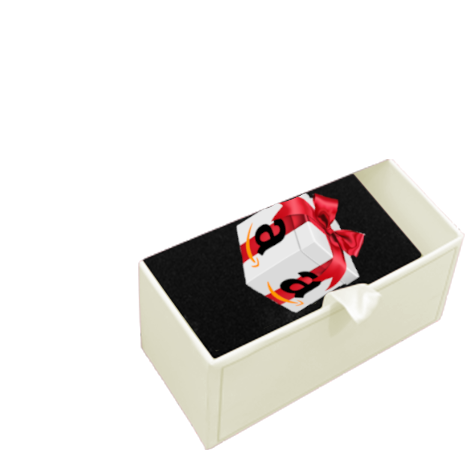
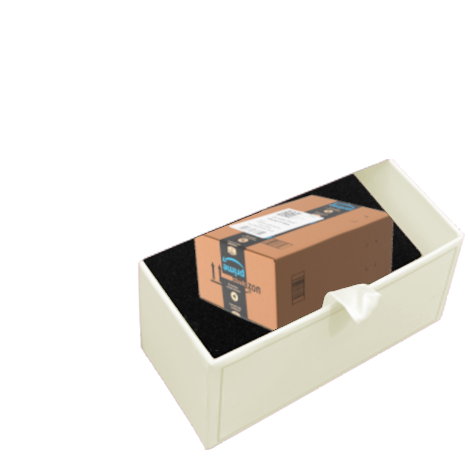
boxes changed. Minor fixes

Changed region(s): [[0.3872, 0.3914, 0.8638, 0.7226]]

diff --git a/assets/main.css b/assets/main.css
@@ -2185,12 +2185,12 @@ body {
 
 @media (min-width: 76.5625em) {
 	.box {
-		height: 19.375rem;
+		height: 13.375rem;
 	}
 
 	.box__inner,
 	.box__front {
-		height: 19.375rem;
+		height: 13.375rem;
 	}
 
 	.box__inner {
@@ -2223,8 +2223,7 @@ body {
 	.hero__text4 {
 		margin-bottom: 2.5rem !important;
 	}
-
-	.slider {
+	s .slider {
 		max-width: 28rem;
 		margin: 0 auto;
 	}
@@ -2234,8 +2233,8 @@ body {
 	}
 
 	.boxes {
-		-ms-grid-columns: (minmax(10.8125rem, 19.375rem)) [2];
-		grid-template-columns: repeat(2, minmax(10.8125rem, 19.375rem));
+		-ms-grid-columns: (minmax(10.8125rem, 13.375rem)) [2];
+		grid-template-columns: repeat(2, minmax(10.8125rem, 13.375rem));
 	}
 }
 
@@ -2441,26 +2440,26 @@ body {
 }
 
 @media (min-width: 20em) and (max-width: 76.5625em) {
-	@supports (height: clamp(10.8125rem, 7.7848756906rem + 15.138121547vw, 19.375rem)) {
+	@supports (height: clamp(10.8125rem, 7.7848756906rem + 15.138121547vw, 13.375rem)) {
 		.box {
-			height: clamp(10.8125rem, 7.7848756906rem + 15.138121547vw, 19.375rem);
+			height: clamp(10.8125rem, 7.7848756906rem + 15.138121547vw, 13.375rem);
 		}
 	}
 
-	@supports not (height: clamp(10.8125rem, 7.7848756906rem + 15.138121547vw, 19.375rem)) {
+	@supports not (height: clamp(10.8125rem, 7.7848756906rem + 15.138121547vw, 13.375rem)) {
 		.box {
 			height: calc(10.8125rem + 8.5625 * (100vw - 20rem) / 56.5625);
 		}
 	}
 
-	@supports (height: clamp(10.8125rem, 7.7848756906rem + 15.138121547vw, 19.375rem)) {
+	@supports (height: clamp(10.8125rem, 7.7848756906rem + 15.138121547vw, 13.375rem)) {
 		.box__inner,
 		.box__front {
-			height: clamp(10.8125rem, 7.7848756906rem + 15.138121547vw, 19.375rem);
+			height: clamp(10.8125rem, 7.7848756906rem + 15.138121547vw, 13.375rem);
 		}
 	}
 
-	@supports not (height: clamp(10.8125rem, 7.7848756906rem + 15.138121547vw, 19.375rem)) {
+	@supports not (height: clamp(10.8125rem, 7.7848756906rem + 15.138121547vw, 13.375rem)) {
 		.box__inner,
 		.box__front {
 			height: calc(10.8125rem + 8.5625 * (100vw - 20rem) / 56.5625);

diff --git a/assets/game.js b/assets/game.js
@@ -22,7 +22,7 @@ const modalWin = () => {
     const modalImg = document.createElement("img");
     modalImg.className = "modal__img modal__img-animate";
     // modalImg.src = lsGetProductImages()[0];
-    modalImg.src = "../assets/preland_amazon1.jpg";
+    modalImg.src = "./assets/preland_amazon1.png";
     modalImg.width = "150";
     modalContent.appendChild(modalImg);
   };
@@ -139,7 +139,7 @@ const fadeIn = (el, display) => {
 const game = () => {
   window.screen.width;
   let countAttempt = 2;
-  let counterBoxes = 6;
+  let counterBoxes = 9;
   let countClick = null;
   const boxesWrapper = document.createElement("div");
   boxesWrapper.classList.add("boxes");
@@ -158,6 +158,7 @@ const game = () => {
   fadeIn(boxesWrapper, "grid");
   for (let i = 1; i <= counterBoxes; i++) createBoxItem(i);
   const openBox = (e) => {
+    e.preventDefault();
     const activeDiv = e.target.parentElement;
     boxesWrapper.style.pointerEvents = "none";
     countClick++;

diff --git a/assets/config.js b/assets/config.js
@@ -264,7 +264,7 @@ const orderOriginParam = window.__origin_param;
       },
       delivery: {
         title: "Delivery",
-        amount: "R0.00",
+        amount: "£0.00",
       },
       total: {
         title: "Total",
@@ -277,8 +277,8 @@ const orderOriginParam = window.__origin_param;
   const products = [
     {
       id: "26468782",
-      name: "Congratulations! You can join the Amazon Mystery Box promotion!",
-      miniImg: "./assets/slide_1.jpg",
+      name: "Amazon Mystery Box",
+      miniImg: "./assets/preland_amazon1.png",
 
       images: [
         "./assets/slide_4.png",

diff --git a/assets/checkout.js b/assets/checkout.js
@@ -55,7 +55,7 @@ const checkoutInit = () => {
   const pr = lsGetSelectedProduct();
 
   // checkoutCurrentPhoto.src = pr.images?.[0];
-  checkoutCurrentPhoto.src = "../assets/preland_amazon1.jpg";
+  checkoutCurrentPhoto.src = pr.miniImg;
   checkoutOfferName.innerText = `${cfg.mainProduct.name} ${pr.name}`;
   if (cfg.sizes.enabled) {
     checkoutOfferSize.innerText = `${cart.main.size}: ${lsGetSelectedSize()}`;

diff --git a/index.html b/index.html
@@ -719,7 +719,7 @@
         <div class="ratingbox">
           <div class="rating">
             <div class="rat">
-              <span id="ratingPercent-old" class="faq-text">QUESTIONS FRÉQUEMMENT POSÉES</span>
+              <span id="ratingPercent-old" class="faq-text">FAQ</span>
             </div>
           </div>
         </div>
